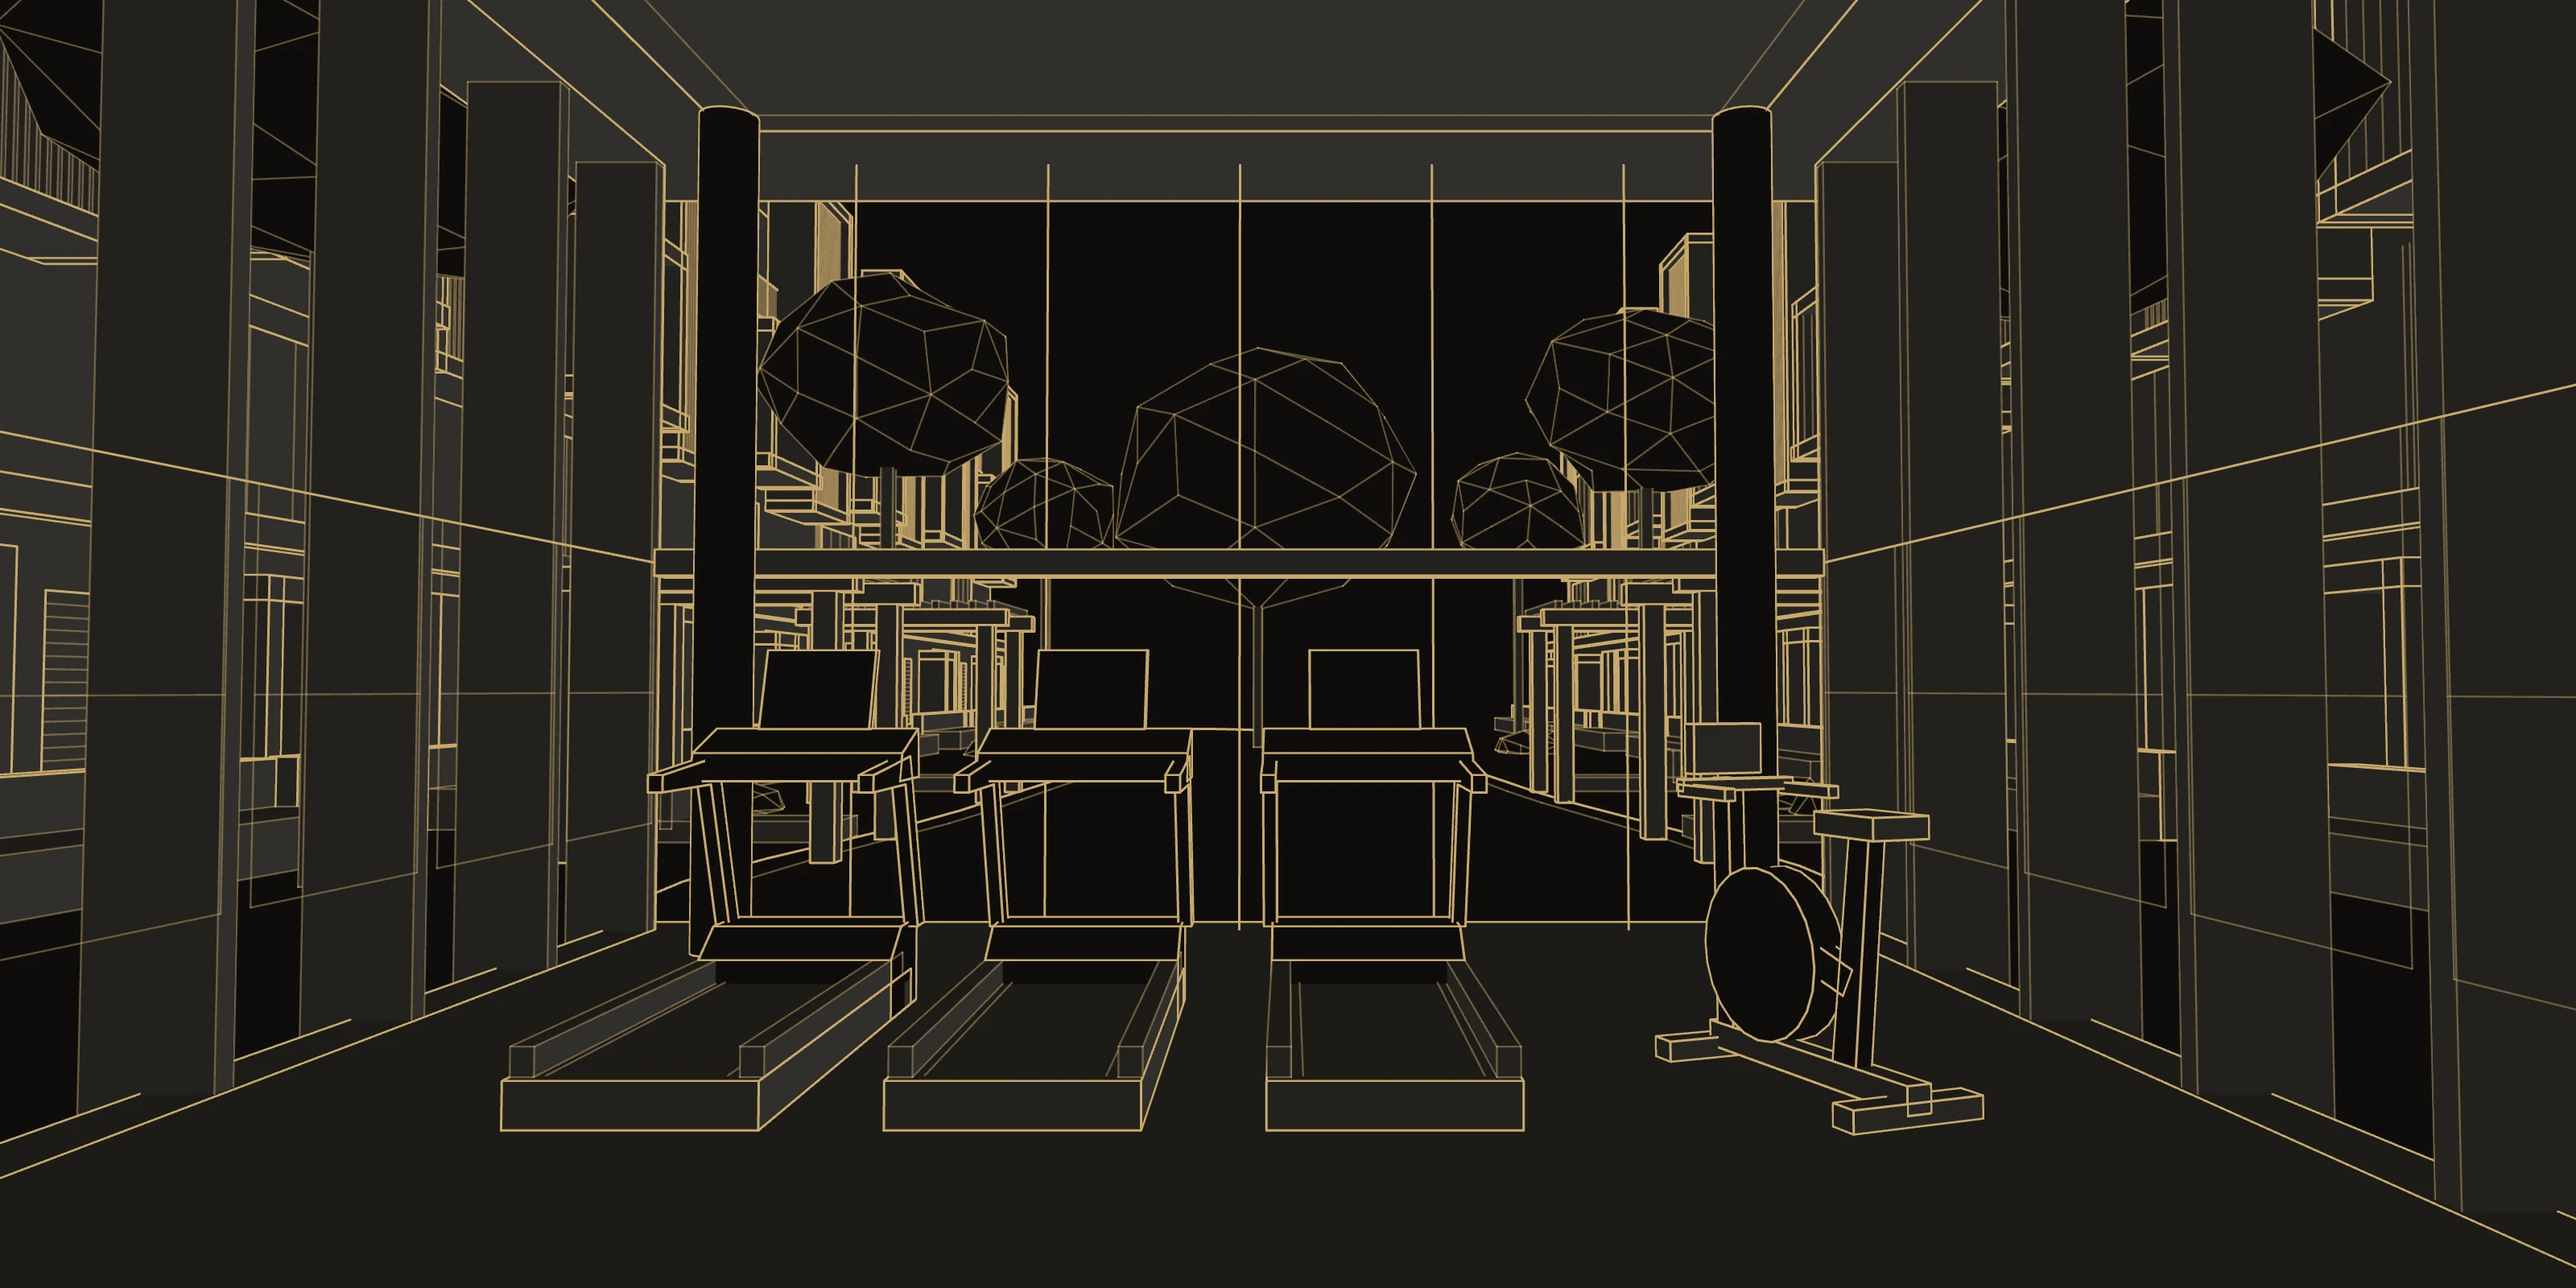
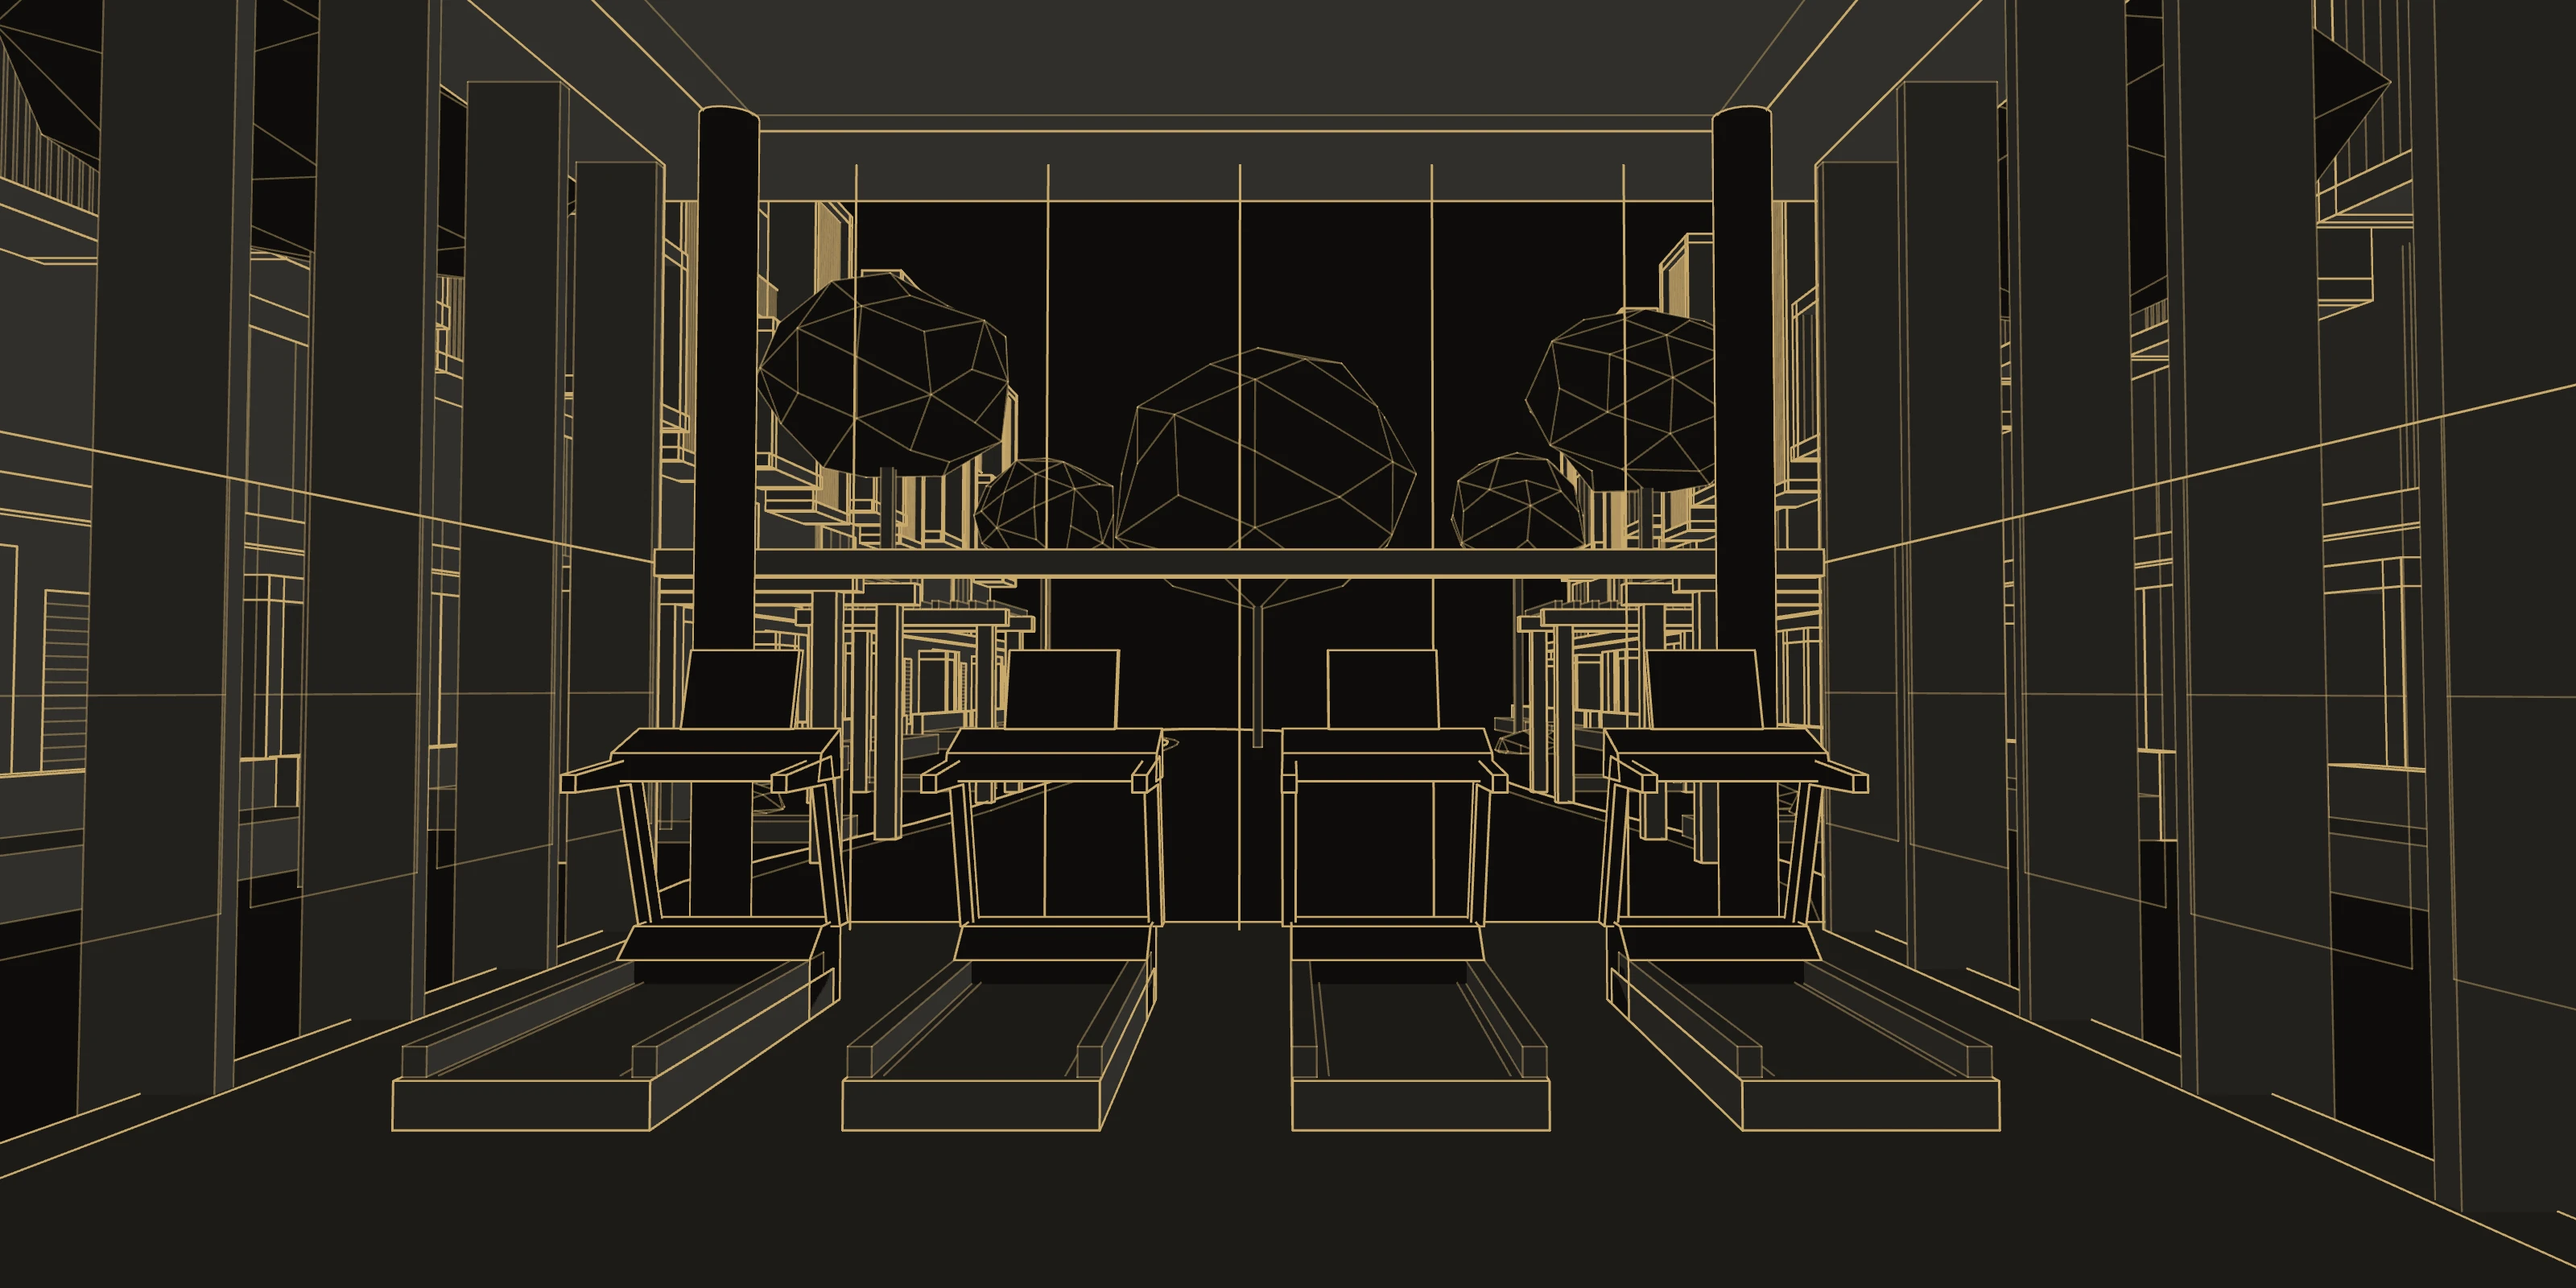
Floating gym: four treadmills, no bike
The bike is replaced by a fourth treadmill. The four are centred in the
7.2 m pavilion, 0.55 m apart (1.47 m centre to centre, each about 0.92 m
wide with its handrails): about 0.93 m clear to each side wall and over
5 m behind. Still regenerated.

Claude-Session: https://claude.ai/code/session_01C95DWHDY8NmwjfweiUBywE

diff --git a/src/ink/scenes.js b/src/ink/scenes.js
@@ -30,8 +30,8 @@ export const SCENES = {
     look: { eye: [-15, 11, 32], at: [1.8, -1, 8.9], fov: 34 } }),
   // the timber deck and its two nests
   lounge: make(() => import('../../tools/drawings/scenes/lounge.js'), { shadow: { x: 0, z: 2, r: 16 }, focus: inBox(-7.5, 6, -1, 3.2, -1.6, 5) }),
-  // the running machines and the bike
-  gym: make(() => import('../../tools/drawings/scenes/gym.js'), { shadow: { x: 0, z: 4, r: 14 }, focus: inBox(-3, 3.3, 0, 2.2, 1.8, 5.2) }),
+  // the four treadmills
+  gym: make(() => import('../../tools/drawings/scenes/gym.js'), { shadow: { x: 0, z: 4, r: 14 }, focus: inBox(-3.2, 3.2, 0, 2.2, 1.8, 5.2) }),
   // the long pool and the boat in it
   aerial: make(() => import('../../tools/drawings/scenes/aerial.js'), { aspect: 900 / 1600, shadow: { x: 0, z: -28, r: 52 }, disc: false, focus: inBox(-11, 14, -1, 5, -66, 23) }),
   // the entrance portal and the guardhouse under it

diff --git a/tools/drawings/scenes/gym.js b/tools/drawings/scenes/gym.js
@@ -87,8 +87,9 @@ export default function gym(k) {
   k.groundPlane()
   // 亭子正面朝 -z（在 z = 0），人在里面
   pavilion(k, { ox: 0, oz: 0, ry: Math.PI, W: 7.2, D: 10, H: 5, eye })
-  for (const x of [-1.85, -0.6, 0.65]) treadmill(k, x, 3.3)
-  bike(k, 2.25, 3.7, 0.35)
+  // four treadmills, centred in the 7.2 m room: each about 0.92 m wide with its handrails, 0.55 m apart
+  // (1.47 m centre to centre), so about 0.93 m clear to each side wall and over 5 m clear behind
+  for (const x of [-2.205, -0.735, 0.735, 2.205]) treadmill(k, x, 3.3)
   // 外面：两排别墅面对面
   villaRow(k, { n: 8, ox: 12, oz: -58, ry: -Math.PI / 2, ground: false, yard: true })
   villaRow(k, { n: 8, ox: -12, oz: 10, ry: Math.PI / 2, ground: false, yard: true })
